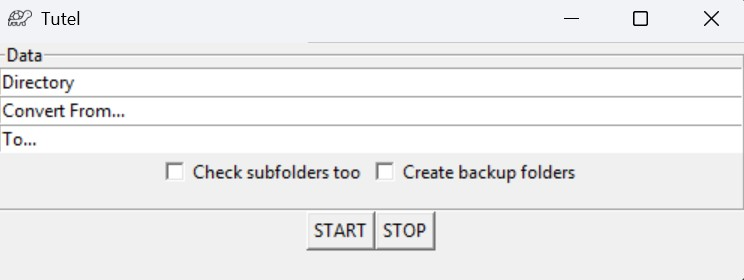
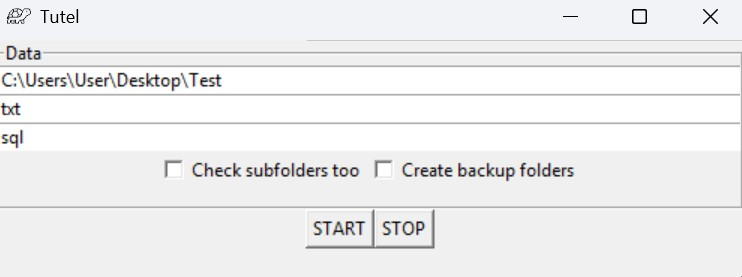
Minor fixes

diff --git a/src/business/app_business.py b/src/business/app_business.py
@@ -9,12 +9,12 @@ class AppBusiness:
 
         if not flags.recursive_mode:
             filenames = set(next(os.walk(directory, topdown = True))[2])
-            converted_elements, stopped = AppBusiness.convert_directory_content(directory, filenames, from_ext, to_ext)
+            converted_elements, stopped = AppBusiness.convert_directory_content(directory, filenames, from_ext, to_ext, flags)
             return converted_elements, stopped
         
         for path, directories, filenames in os.walk(directory):
             filenames = set(filenames)
-            new_converted_elements, stopped = AppBusiness.convert_directory_content(path, filenames, from_ext, to_ext)
+            new_converted_elements, stopped = AppBusiness.convert_directory_content(path, filenames, from_ext, to_ext, flags)
             converted_elements += new_converted_elements
 
             if stopped:
@@ -24,7 +24,7 @@ class AppBusiness:
     
     @staticmethod
     def convert_directory_content(directory, filenames, from_ext, to_ext, flags):
-        backup_directory = f"{directory}/{from_ext}"
+        backup_directory = f"{directory}/{from_ext}_backup_folder"
         converted_elements = 0
         
         for element in filenames:

diff --git a/src/gui/main_window.py b/src/gui/main_window.py
@@ -125,7 +125,7 @@ class MainWindow(tkinter.Tk):
         self.start_button.focus_set()
         
         if not self.flags.operation_in_progress:
-            self.operation_in_progress = True
+            self.flags.operation_in_progress = True
             self.exec_thread = threading.Thread(target = self.thread)
             self.exec_thread.start()
             

diff --git a/README.md b/README.md
@@ -8,7 +8,7 @@ This is an example of inputs you could insert before pressing the start button:
 
 <img src = "assets/images/preview.jpeg" width = "500" height = "200">
 
-In this case we are converting the png images in "MyFolder" into jpeg images.
+In this case we are converting the txt files in the "Test" folder into sql files.
 
 ## Icon
 You can find the icon used for this project here:
